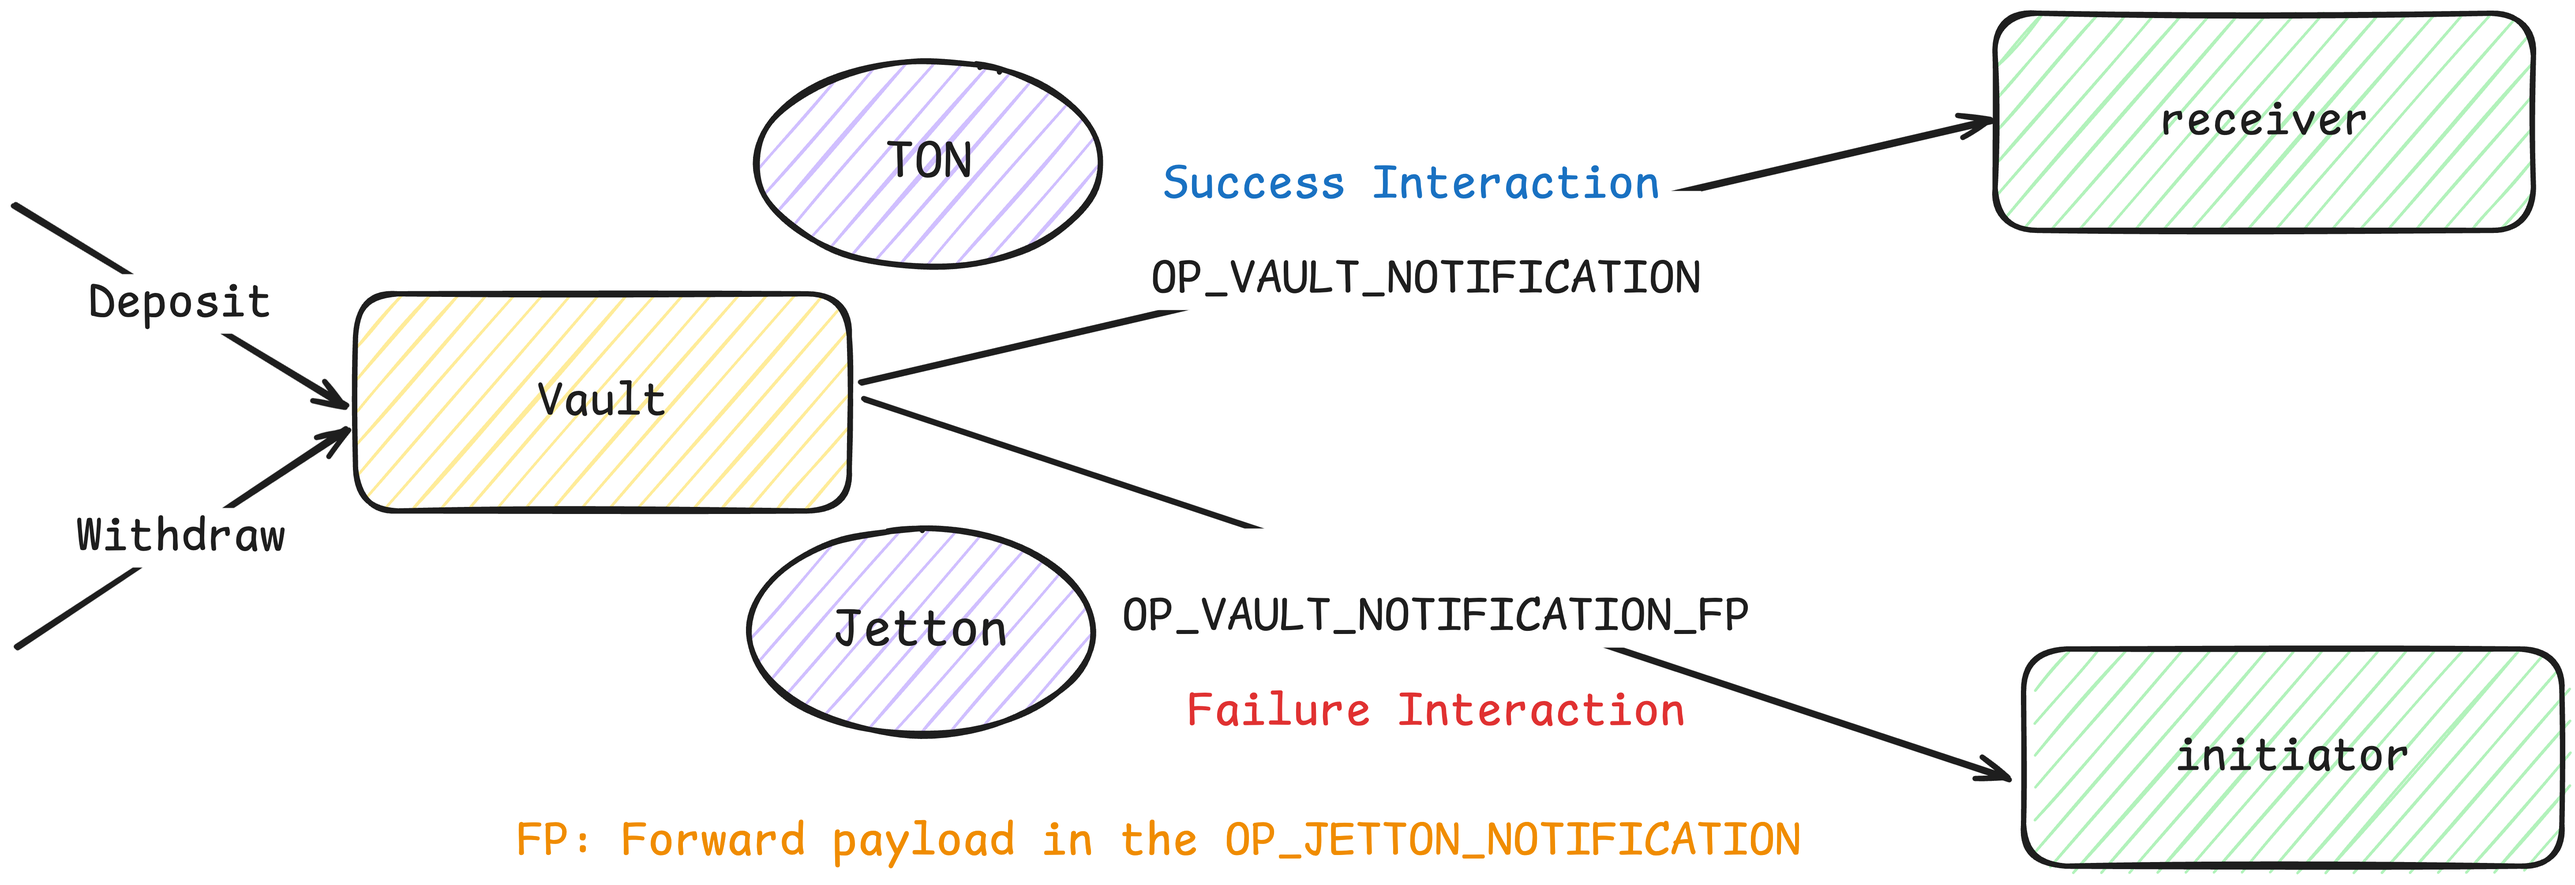
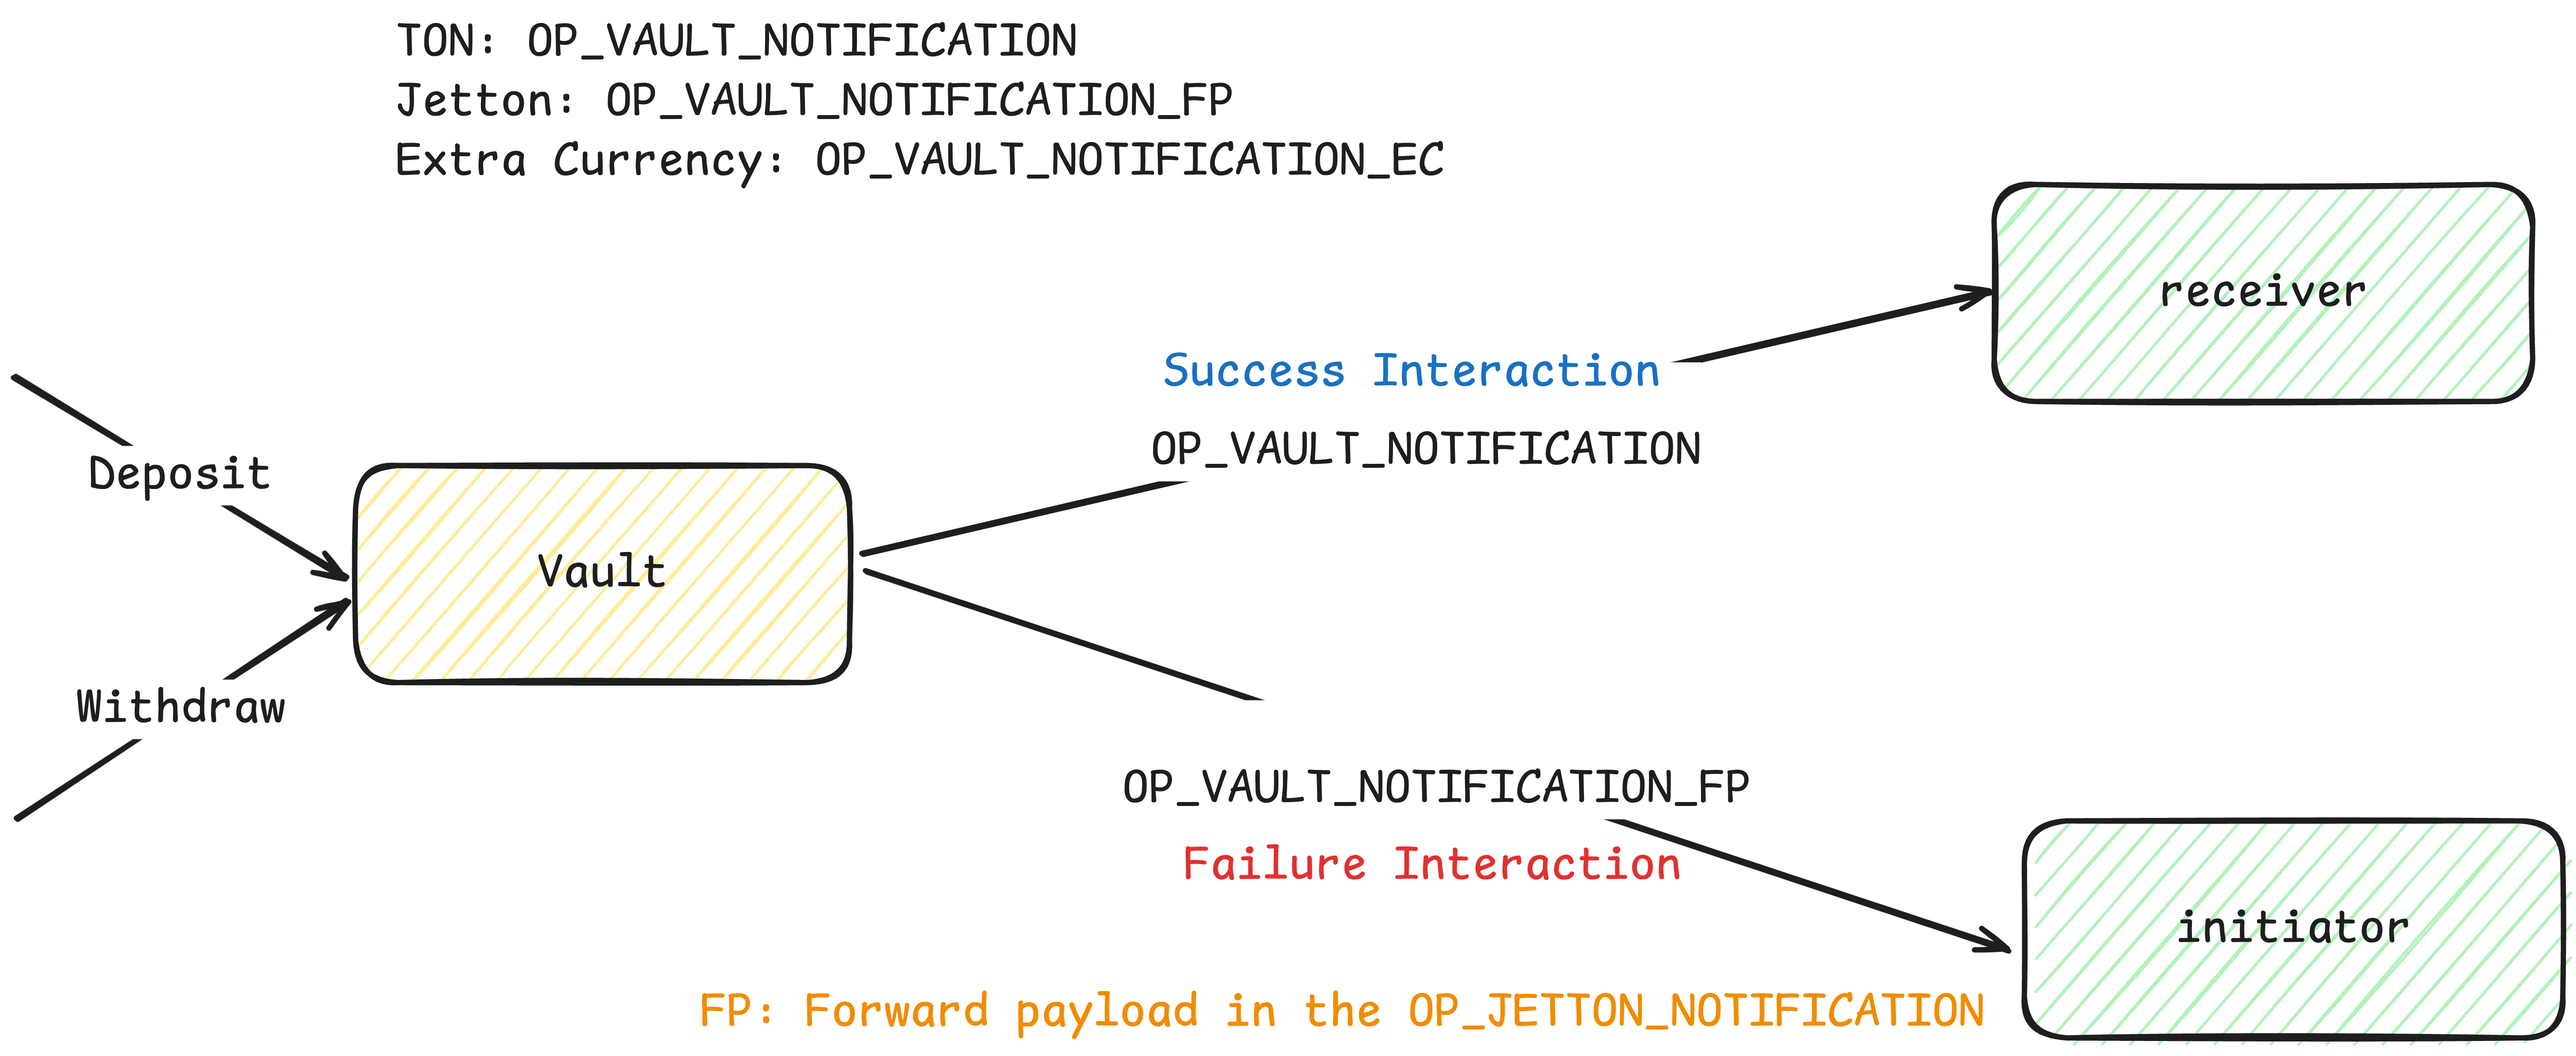
Update deposit image in TEP documentation to reflect Extra Currency. Add new deposit-ec.png asset and modify reference in tep-vault.md for clarity.

diff --git a/tep-vault.md b/tep-vault.md
@@ -322,7 +322,7 @@ For vaults managing multiple underlying assets, the following persistent storage
 
 **Deposit (For Extra Currency)**
 
-![deposit-ton](./assets/deposit-ton.png)
+![deposit-ec](./assets/deposit-ec.png)
 
 - **Description**: Mint shares to `receiver` by depositing exactly `depositAmount` of Extra Currency.
 - **Requirements**:
